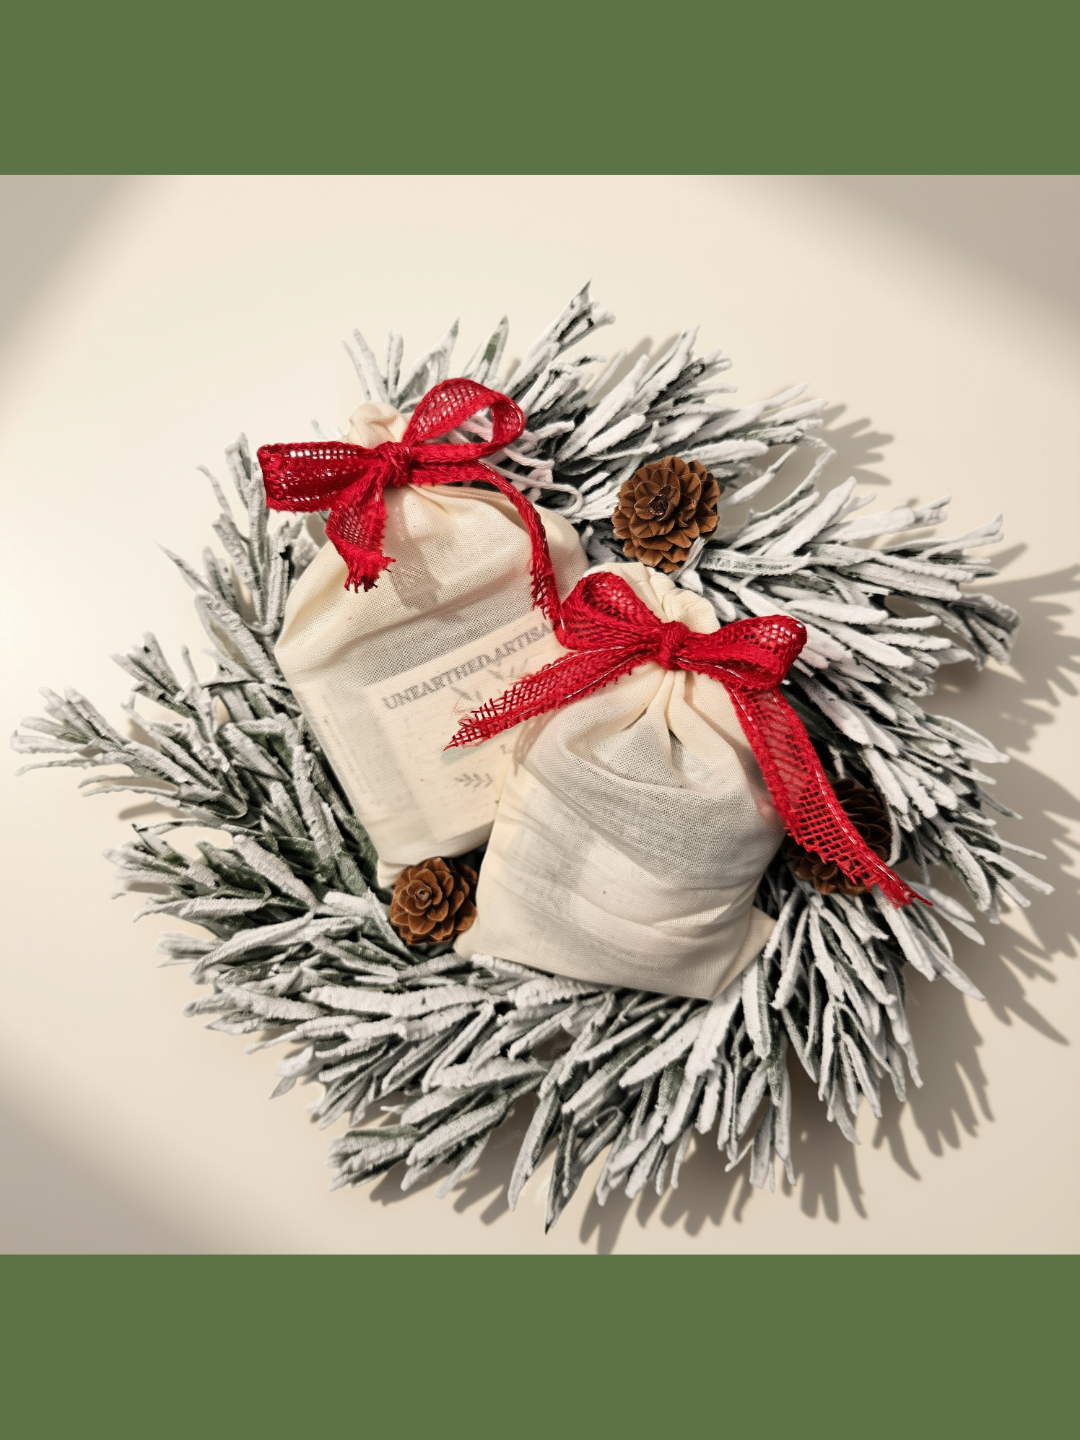
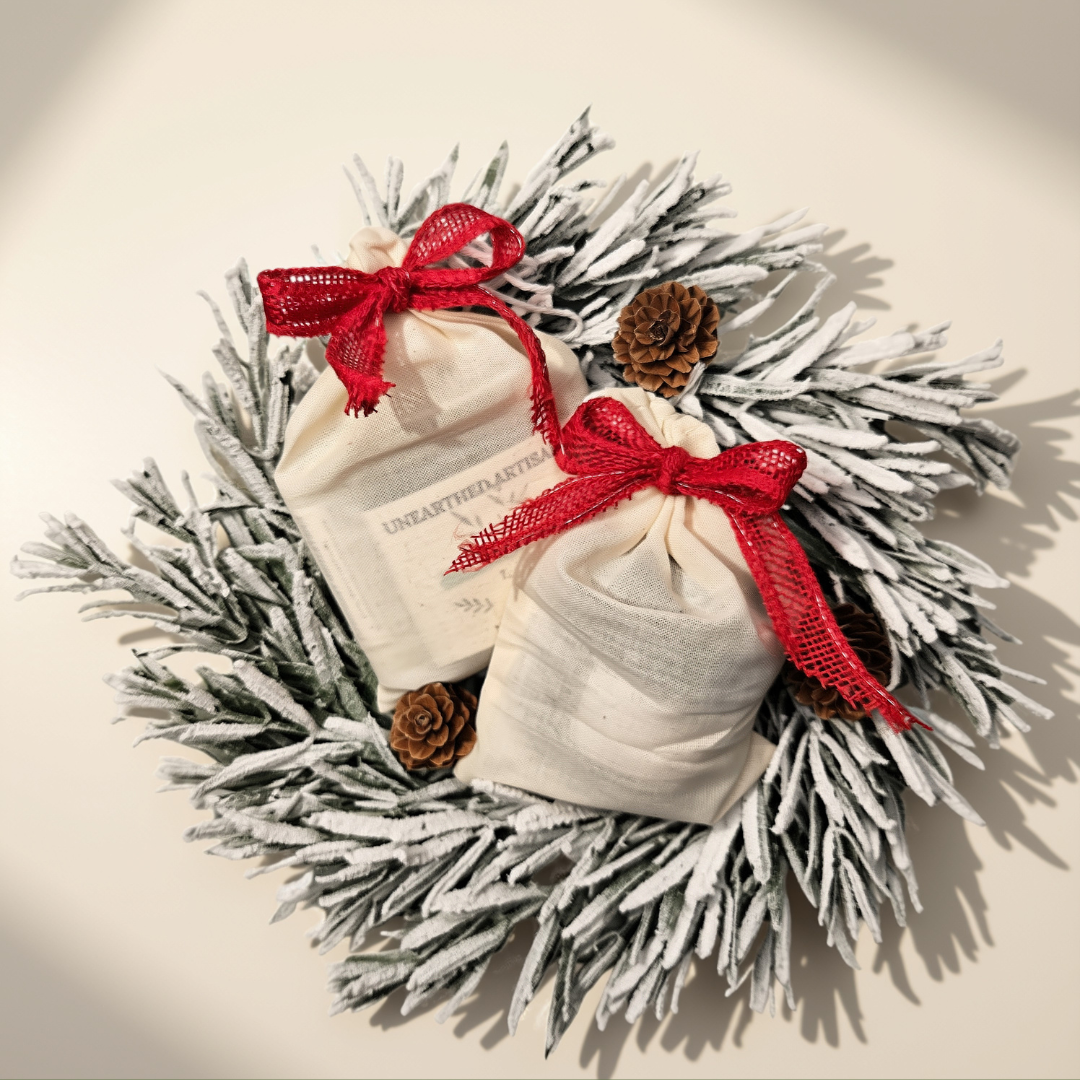
Zoom in on the stocking stuffer photo in the shop
The shop card gets its own tighter, recentered crop so the bags fill the
round frame about as much as the gift set does. The email's copy of the
photo now has the green bars cropped off.

diff --git a/shop.html b/shop.html
@@ -128,7 +128,7 @@
       <article class="card">
         <div class="card-art">
           <span class="card-tag">Limited</span>
-          <img src="assets/holiday-stocking-stuffers.png" alt="Two stocking stuffers in muslin bags tied with red ribbon, on frosted fir" />
+          <img src="assets/holiday-stocking-stuffers-shop.png" alt="Two stocking stuffers in muslin bags tied with red ribbon, on frosted fir" />
         </div>
         <div class="card-body">
           <h3>Stocking Stuffer</h3>
